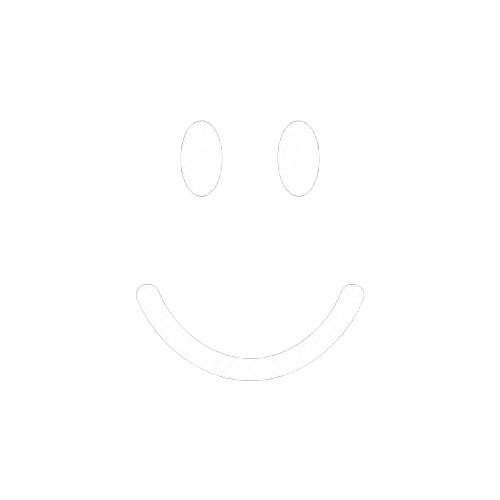
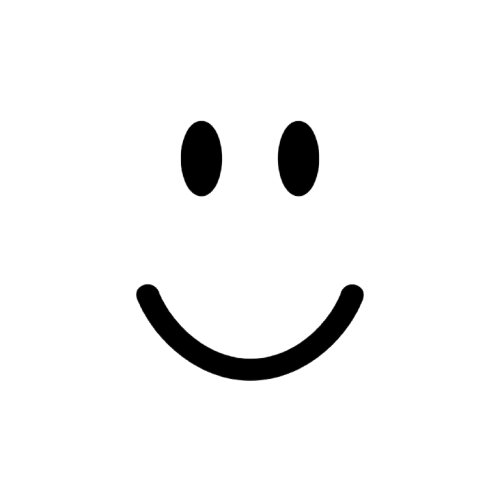
Update starter face texture and curve/center placement on Head

Changed region(s): [[0.27, 0.57, 0.75, 0.78], [0.54, 0.24, 0.66, 0.39], [0.36, 0.24, 0.45, 0.39]]

diff --git a/src/components/PlayerModel3D.tsx b/src/components/PlayerModel3D.tsx
@@ -175,7 +175,7 @@ export function PlayerModel3D({
         map: faceTex,
         transparent: true,
         alphaTest: 0.05,
-        roughness: 0.45,
+        roughness: 0.8,
         metalness: 0,
         depthWrite: false,
         polygonOffset: true,
@@ -217,15 +217,29 @@ export function PlayerModel3D({
         const hCenter = new THREE.Vector3()
         headBox.getSize(hSize)
         headBox.getCenter(hCenter)
-        const faceSize = Math.min(hSize.x, hSize.y) * 0.78
-        const faceMesh = new THREE.Mesh(new THREE.PlaneGeometry(faceSize, faceSize), faceMat)
-        const worldFront = new THREE.Vector3(hCenter.x, hCenter.y + hSize.y * 0.02, headBox.max.z + 0.015)
+        const faceSize = Math.min(hSize.x, hSize.y) * 0.72
+        const faceGeo = new THREE.PlaneGeometry(faceSize, faceSize, 16, 1)
+        const cylRadius = Math.max(hSize.z * 0.5 + 0.008, faceSize * 0.55)
+        const posAttr = faceGeo.getAttribute('position')
+        for (let i = 0; i < posAttr.count; i++) {
+          const x = posAttr.getX(i)
+          const theta = x / cylRadius
+          posAttr.setX(i, cylRadius * Math.sin(theta))
+          posAttr.setZ(i, cylRadius * Math.cos(theta) - cylRadius)
+        }
+        faceGeo.computeVertexNormals()
+
+        const faceMesh = new THREE.Mesh(faceGeo, faceMat)
+        const worldFront = new THREE.Vector3(hCenter.x, hCenter.y - hSize.y * 0.04, headBox.max.z + 0.008)
 
         const attachParent = headTarget || headMesh || model
         attachParent.updateMatrixWorld(true)
         attachParent.worldToLocal(worldFront)
         faceMesh.position.copy(worldFront)
-        // Counter-scale so faceMesh keeps exact world size inside scaled/rigged parent
+        // Counter-rotate & counter-scale so faceMesh faces world +Z at exact size inside rigged parent
+        const pQuat = new THREE.Quaternion()
+        attachParent.getWorldQuaternion(pQuat)
+        faceMesh.quaternion.copy(pQuat).invert()
         const pScale = new THREE.Vector3()
         attachParent.getWorldScale(pScale)
         faceMesh.scale.set(
